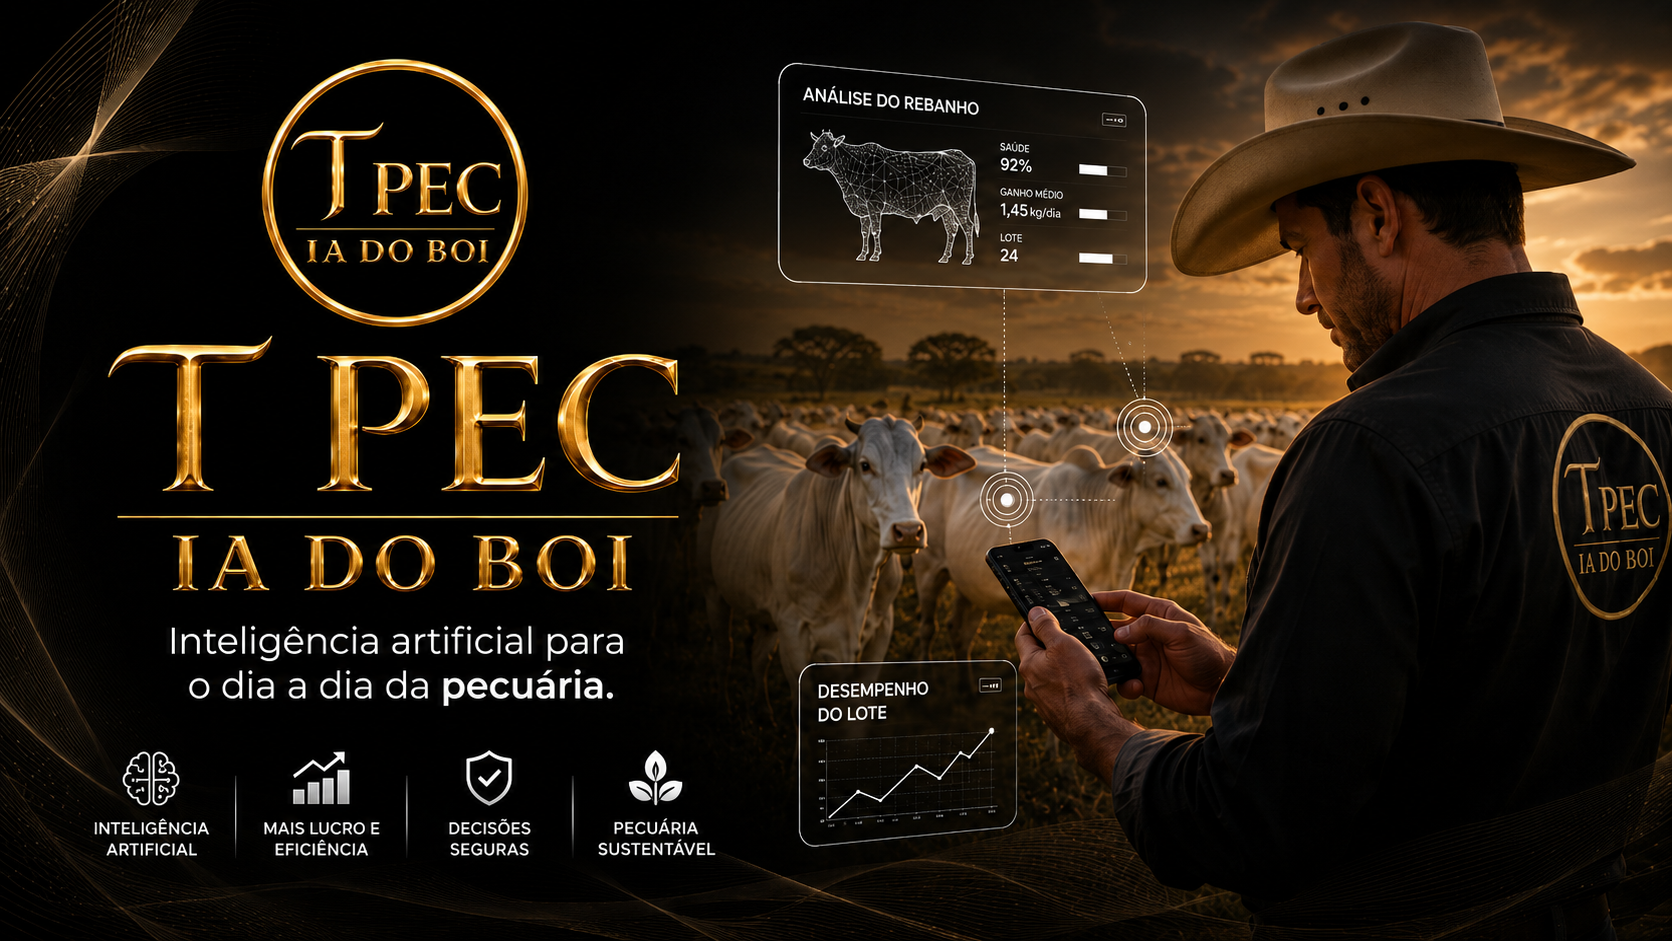
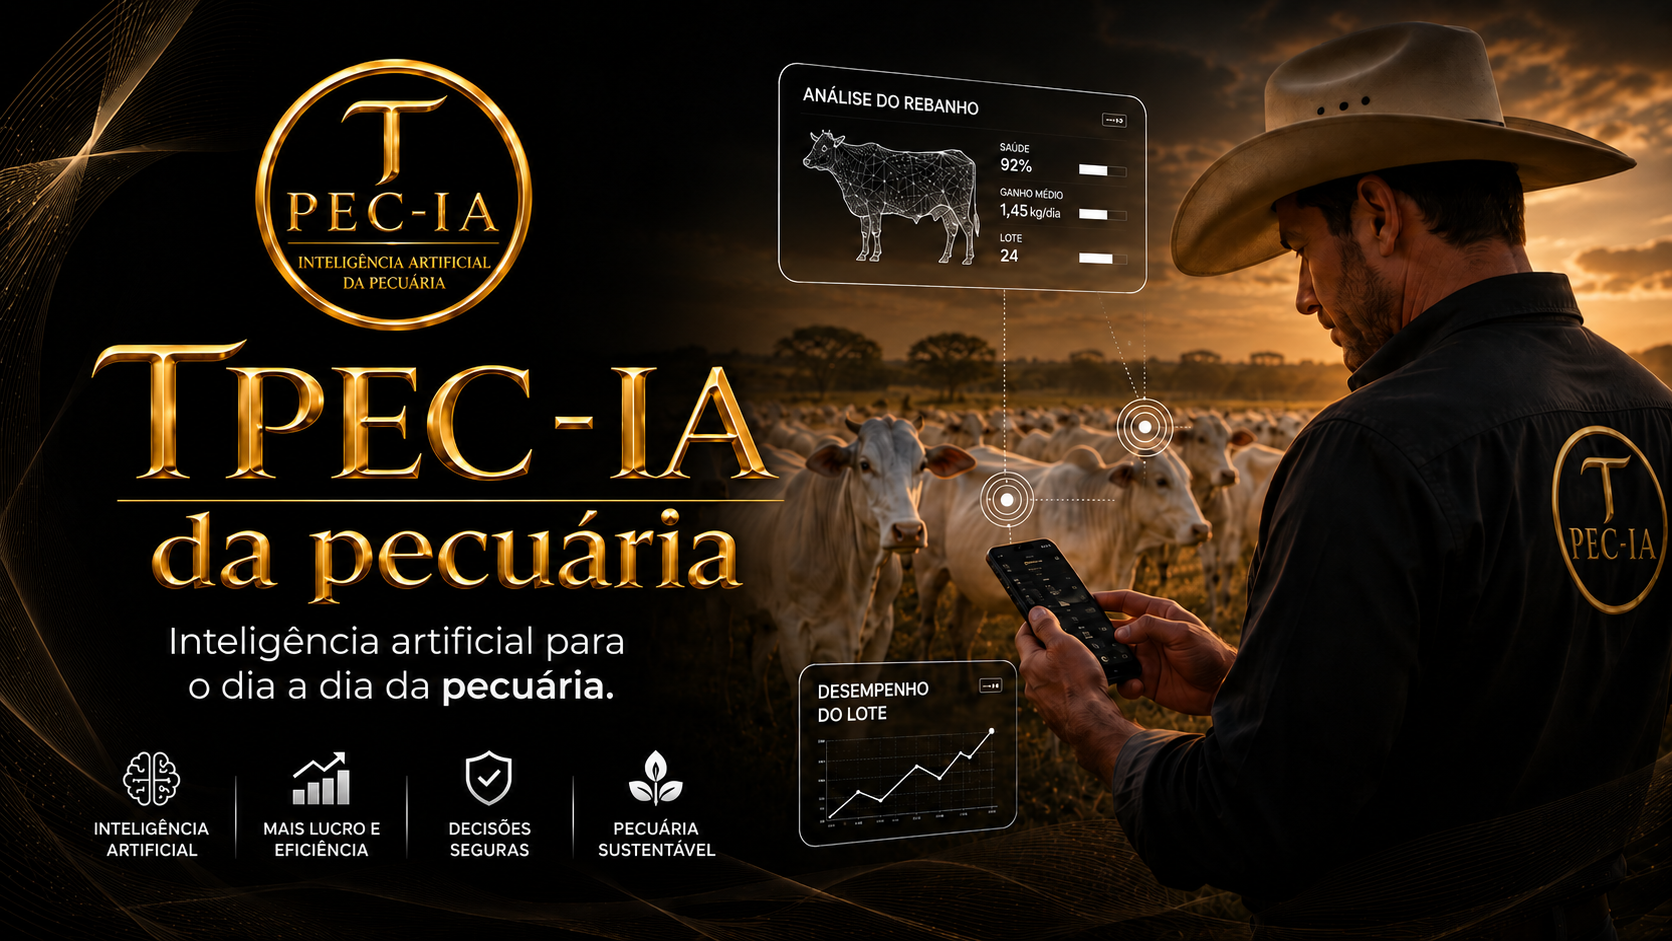
Rename IA do Boi branding to TPEC IA da pecuaria

diff --git a/src/routes/index.tsx b/src/routes/index.tsx
@@ -2,7 +2,7 @@ import { createFileRoute } from "@tanstack/react-router";
 import "../landing.css";
 
 const whatsappUrl =
-  "https://wa.me/5516992256069?text=Ol%C3%A1%2C%20quero%20conhecer%20a%20TPEC-IA%2C%20a%20IA%20do%20Boi.";
+  "https://wa.me/5516992256069?text=Ol%C3%A1%2C%20quero%20conhecer%20a%20TPEC%20-%20IA%20da%20pecu%C3%A1ria.";
 
 const whatsappReferenceImage = "/tpec-whatsapp-reference.webp";
 const heroBullPhoto = "/tpec-hero-bull.webp?v=sr-2400-20260921-v2";
@@ -123,7 +123,7 @@ const structuredData = {
     {
       "@type": "Organization",
       "@id": "https://iadoboi.com.br/#organization",
-      name: "IA do Boi",
+      name: "TPEC - IA da pecuária",
       alternateName: "TPEC-IA",
       url: "https://iadoboi.com.br/",
       logo: {
@@ -135,7 +135,7 @@ const structuredData = {
       "@type": "WebSite",
       "@id": "https://iadoboi.com.br/#website",
       url: "https://iadoboi.com.br/",
-      name: "IA do Boi",
+      name: "TPEC - IA da pecuária",
       alternateName: "TPEC-IA",
       inLanguage: "pt-BR",
       publisher: { "@id": "https://iadoboi.com.br/#organization" },
@@ -146,11 +146,11 @@ const structuredData = {
 export const Route = createFileRoute("/")({
   head: () => ({
     meta: [
-      { title: "IA do Boi — Inteligência Artificial para Pecuária" },
+      { title: "TPEC - IA da pecuária" },
       {
         name: "description",
         content:
-          "IA do Boi é uma inteligência artificial para pecuária e gado. Tire dúvidas, envie fotos e receba apoio sobre manejo, nutrição, pastagens e mais pelo WhatsApp.",
+          "A TPEC - IA da pecuária ajuda quem trabalha com pecuária. Tire dúvidas, envie fotos e receba apoio sobre manejo, nutrição, pastagens e mais pelo WhatsApp.",
       },
       {
         name: "robots",
@@ -160,7 +160,7 @@ export const Route = createFileRoute("/")({
         name: "googlebot",
         content: "index, follow, max-image-preview:large, max-snippet:-1, max-video-preview:-1",
       },
-      { property: "og:title", content: "IA do Boi — Inteligência Artificial para Pecuária" },
+      { property: "og:title", content: "TPEC - IA da pecuária" },
       {
         property: "og:description",
         content:
@@ -168,17 +168,17 @@ export const Route = createFileRoute("/")({
       },
       { property: "og:type", content: "website" },
       { property: "og:url", content: "https://iadoboi.com.br/" },
-      { property: "og:site_name", content: "IA do Boi" },
+      { property: "og:site_name", content: "TPEC - IA da pecuária" },
       { property: "og:locale", content: "pt_BR" },
-      { property: "og:image", content: "https://iadoboi.com.br/og.png" },
-      { property: "og:image:alt", content: "IA do Boi — inteligência artificial para pecuária" },
+      { property: "og:image", content: "https://iadoboi.com.br/og.png?v=tpec-20260928" },
+      { property: "og:image:alt", content: "TPEC - IA da pecuária" },
       { name: "twitter:card", content: "summary_large_image" },
-      { name: "twitter:title", content: "IA do Boi — Inteligência Artificial para Pecuária" },
+      { name: "twitter:title", content: "TPEC - IA da pecuária" },
       {
         name: "twitter:description",
         content: "IA para pecuária e gado, com respostas e análise por foto direto no WhatsApp.",
       },
-      { name: "twitter:image", content: "https://iadoboi.com.br/og.png" },
+      { name: "twitter:image", content: "https://iadoboi.com.br/og.png?v=tpec-20260928" },
     ],
     links: [{ rel: "canonical", href: "https://iadoboi.com.br/" }],
   }),
@@ -320,7 +320,7 @@ function LandingPage() {
         dangerouslySetInnerHTML={{ __html: JSON.stringify(structuredData) }}
       />
       <header className="site-header">
-        <a className="brand" href="#whatsapp" aria-label="IA do Boi — início">
+        <a className="brand" href="#whatsapp" aria-label="TPEC - IA da pecuária — início">
           <img src="/tpec-logo.png" alt="" />
           <span>
             <strong>TPEC-IA</strong>
@@ -438,7 +438,7 @@ function LandingPage() {
         <div className="poster-swoosh" aria-hidden="true" />
         <div className="hero-copy reference-copy">
           <span className="reference-kicker">
-            IA DO BOI • INTELIGÊNCIA ARTIFICIAL PARA PECUÁRIA
+            TPEC - IA da pecuária
           </span>
           <h1>
             CAMPO +<br />
@@ -449,8 +449,9 @@ function LandingPage() {
           </span>
           <h2>Tecnologia criada para quem está na lida.</h2>
           <p>
-            A IA do Boi usa inteligência artificial para apoiar a rotina da pecuária e do gado,
-            transformando informações em decisões mais claras, práticas e estratégicas no campo.
+            A TPEC - IA da pecuária usa inteligência artificial para apoiar a rotina da pecuária e
+            do gado, transformando informações em decisões mais claras, práticas e estratégicas no
+            campo.
           </p>
           <div className="hero-mini-grid">
             {benefits.map((item) => (

diff --git a/src/routes/__root.tsx b/src/routes/__root.tsx
@@ -75,13 +75,13 @@ export const Route = createRootRouteWithContext<{ queryClient: QueryClient }>()(
     meta: [
       { charSet: "utf-8" },
       { name: "viewport", content: "width=device-width, initial-scale=1" },
-      { title: "IA do Boi — Inteligência Artificial para Pecuária" },
-      { property: "og:title", content: "IA do Boi — Inteligência Artificial para Pecuária" },
-      { name: "twitter:title", content: "IA do Boi — Inteligência Artificial para Pecuária" },
+      { title: "TPEC - IA da pecuária" },
+      { property: "og:title", content: "TPEC - IA da pecuária" },
+      { name: "twitter:title", content: "TPEC - IA da pecuária" },
       {
         name: "description",
         content:
-          "IA do Boi é uma inteligência artificial para pecuária e gado, com apoio prático sobre manejo, nutrição, pastagens e rotina do campo pelo WhatsApp.",
+          "A TPEC - IA da pecuária oferece apoio prático sobre manejo, nutrição, pastagens e rotina do campo pelo WhatsApp.",
       },
       {
         property: "og:description",
@@ -93,15 +93,15 @@ export const Route = createRootRouteWithContext<{ queryClient: QueryClient }>()(
         content:
           "Inteligência artificial para pecuária e gado, com respostas práticas e análise por foto direto no WhatsApp.",
       },
-      { property: "og:site_name", content: "IA do Boi" },
+      { property: "og:site_name", content: "TPEC - IA da pecuária" },
       { property: "og:locale", content: "pt_BR" },
       {
         property: "og:image",
-        content: "https://iadoboi.com.br/og.png",
+        content: "https://iadoboi.com.br/og.png?v=tpec-20260928",
       },
       {
         name: "twitter:image",
-        content: "https://iadoboi.com.br/og.png",
+        content: "https://iadoboi.com.br/og.png?v=tpec-20260928",
       },
       { name: "twitter:card", content: "summary_large_image" },
       { property: "og:type", content: "website" },

diff --git a/src/routes/politica-de-privacidade.tsx b/src/routes/politica-de-privacidade.tsx
@@ -3,21 +3,21 @@ import { createFileRoute } from "@tanstack/react-router";
 export const Route = createFileRoute("/politica-de-privacidade")({
   head: () => ({
     meta: [
-      { title: "Política de Privacidade | IA do Boi" },
+      { title: "Política de Privacidade | TPEC - IA da pecuária" },
       {
         name: "description",
         content:
-          "Política de Privacidade da IA do Boi (TPEC-IA), com informações sobre tratamento de dados no site, WhatsApp e serviços integrados.",
+          "Política de Privacidade da TPEC - IA da pecuária, com informações sobre tratamento de dados no site, WhatsApp e serviços integrados.",
       },
       { name: "robots", content: "index, follow" },
-      { property: "og:title", content: "Política de Privacidade | IA do Boi" },
+      { property: "og:title", content: "Política de Privacidade | TPEC - IA da pecuária" },
       {
         property: "og:description",
-        content: "Informações sobre privacidade e tratamento de dados na IA do Boi (TPEC-IA).",
+        content: "Informações sobre privacidade e tratamento de dados na TPEC - IA da pecuária.",
       },
       { property: "og:type", content: "website" },
       { property: "og:url", content: "https://iadoboi.com.br/politica-de-privacidade" },
-      { property: "og:site_name", content: "IA do Boi" },
+      { property: "og:site_name", content: "TPEC - IA da pecuária" },
     ],
     links: [{ rel: "canonical", href: "https://iadoboi.com.br/politica-de-privacidade" }],
   }),

diff --git a/src/routes/termos-de-uso.tsx b/src/routes/termos-de-uso.tsx
@@ -3,18 +3,21 @@ import { createFileRoute } from "@tanstack/react-router";
 export const Route = createFileRoute("/termos-de-uso")({
   head: () => ({
     meta: [
-      { title: "Termos de Uso | IA do Boi" },
+      { title: "Termos de Uso | TPEC - IA da pecuária" },
       {
         name: "description",
         content:
-          "Termos de Uso da IA do Boi (TPEC-IA), com regras de uso, limites do serviço e responsabilidades relacionadas ao assistente de inteligência artificial.",
+          "Termos de Uso da TPEC - IA da pecuária, com regras de uso, limites do serviço e responsabilidades relacionadas ao assistente de inteligência artificial.",
       },
       { name: "robots", content: "index, follow" },
-      { property: "og:title", content: "Termos de Uso | IA do Boi" },
-      { property: "og:description", content: "Regras e condições de uso da IA do Boi (TPEC-IA)." },
+      { property: "og:title", content: "Termos de Uso | TPEC - IA da pecuária" },
+      {
+        property: "og:description",
+        content: "Regras e condições de uso da TPEC - IA da pecuária.",
+      },
       { property: "og:type", content: "website" },
       { property: "og:url", content: "https://iadoboi.com.br/termos-de-uso" },
-      { property: "og:site_name", content: "IA do Boi" },
+      { property: "og:site_name", content: "TPEC - IA da pecuária" },
     ],
     links: [{ rel: "canonical", href: "https://iadoboi.com.br/termos-de-uso" }],
   }),

diff --git a/src/routes/auth.tsx b/src/routes/auth.tsx
@@ -5,17 +5,17 @@ import { supabase } from "@/integrations/supabase/client";
 export const Route = createFileRoute("/auth")({
   head: () => ({
     meta: [
-      { title: "Entrar · IA do Boi" },
+      { title: "Entrar · TPEC - IA da pecuária" },
       {
         name: "description",
-        content: "Acesso restrito ao painel administrativo da IA do Boi (TPEC-IA).",
+        content: "Acesso restrito ao painel administrativo da TPEC - IA da pecuária.",
       },
       { name: "robots", content: "noindex, nofollow, noarchive" },
       { name: "googlebot", content: "noindex, nofollow, noarchive" },
-      { property: "og:title", content: "Entrar · IA do Boi" },
+      { property: "og:title", content: "Entrar · TPEC - IA da pecuária" },
       {
         property: "og:description",
-        content: "Acesso restrito ao painel administrativo da IA do Boi (TPEC-IA).",
+        content: "Acesso restrito ao painel administrativo da TPEC - IA da pecuária.",
       },
       { property: "og:type", content: "website" },
       { name: "twitter:card", content: "summary" },

diff --git a/src/routes/exclusao-de-dados.tsx b/src/routes/exclusao-de-dados.tsx
@@ -3,11 +3,11 @@ import { createFileRoute } from "@tanstack/react-router";
 export const Route = createFileRoute("/exclusao-de-dados")({
   head: () => ({
     meta: [
-      { title: "Exclusão de Dados | IA do Boi" },
+      { title: "Exclusão de Dados | TPEC - IA da pecuária" },
       {
         name: "description",
         content:
-          "Instruções para solicitar a exclusão de dados associados ao uso da IA do Boi (TPEC-IA).",
+          "Instruções para solicitar a exclusão de dados associados ao uso da TPEC - IA da pecuária.",
       },
       { name: "robots", content: "noindex, follow" },
       { name: "googlebot", content: "noindex, follow" },
